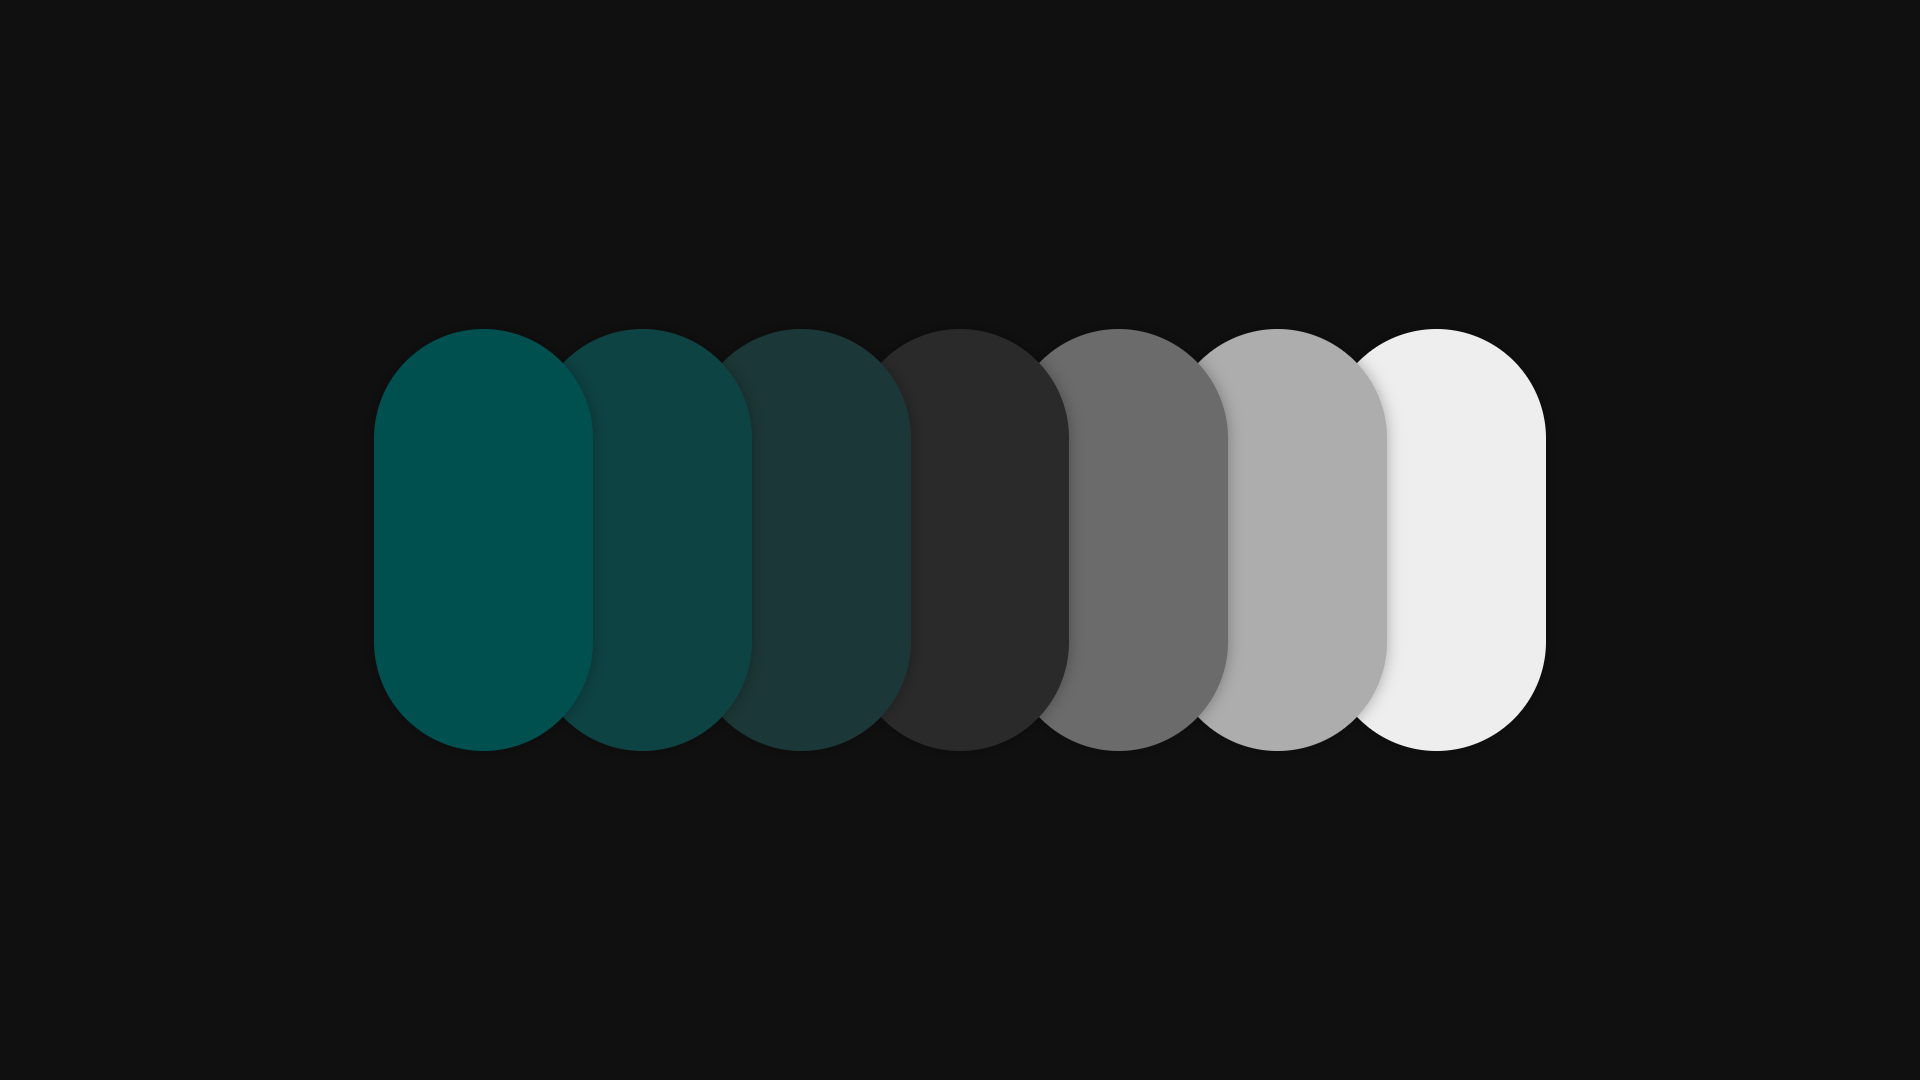
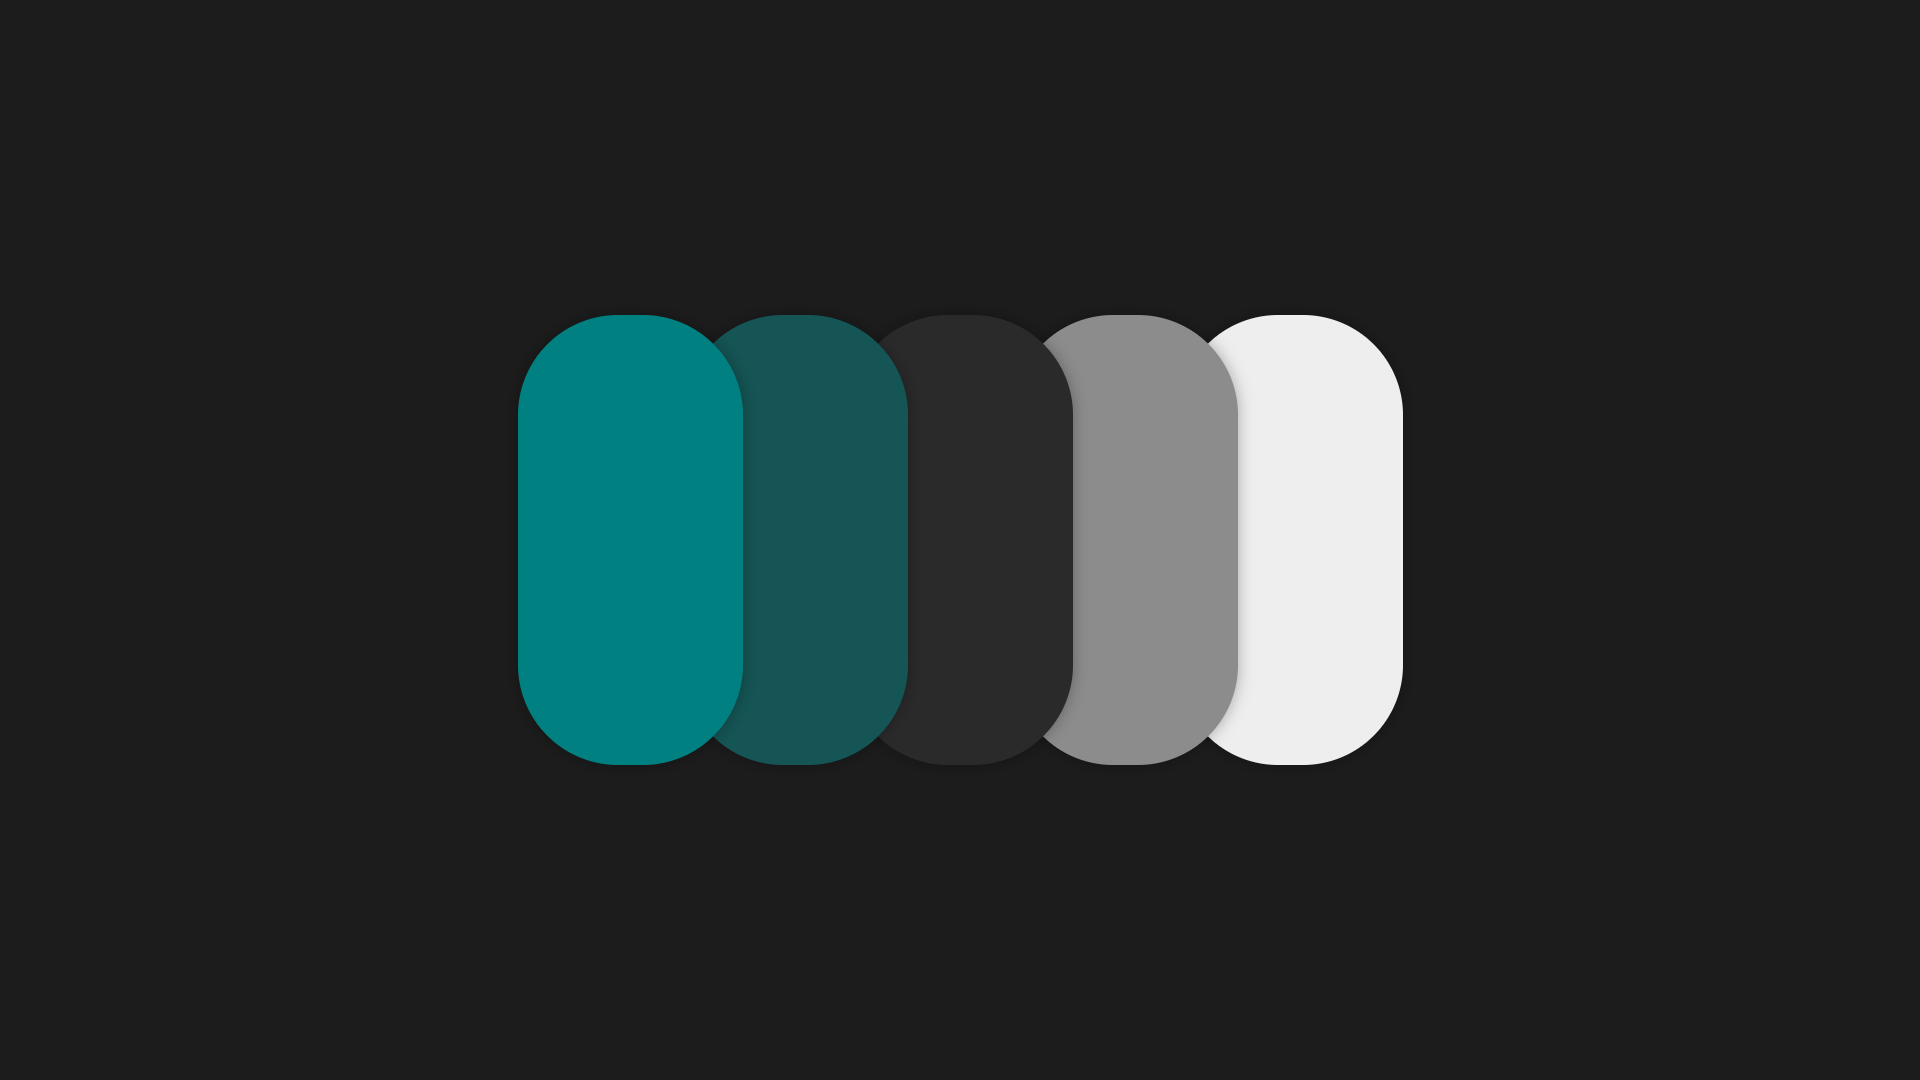
Refined waybar

Changed region(s): [[0.1875, 0.275, 0.8125, 0.7333]]

diff --git a/.config/waybar/style.css b/.config/waybar/style.css
@@ -1,26 +1,70 @@
 @define-color foreground #eeeeee;
+@define-color d-foreground #8c8c8c;
 @define-color background #2a2a2a;
 @define-color color #008080;
+@define-color d-color #155555;
 
 * {
-    font-family: AdwaitaMono Nerd Font;
-    font-size: 16px;
+    font-family: "AdwaitaMono Nerd Font";
+    font-size: 15px;
 }
 
 window#waybar {
+    all: unset;
+}
+
+tooltip {
+    background: @background;
     color: @foreground;
+}
+
+.modules-left {
+    padding: 7px;
+    margin: 10 0 5 10;
+    border-radius: 10px;
+    background: alpha(@background, 0.7);
+}
+
+.modules-center {
+    padding: 7px;
+    margin: 10 0 5 0;
+    border-radius: 10px;
+    background: alpha(@background, 0.7);
+}
+
+.modules-right {
+    padding: 7px;
+    margin: 10 10 5 0;
+    border-radius: 10px;
     background: alpha(@background, 0.7);
 }
 
 #workspaces button {
-    color: @foreground;
-}
-
-#workspaces button.active {
-    background: @color;
+    all: unset;
+    padding: 0px 12px 0px 6px;
+    color: lighter(@background);
+    transition: all 0.2s ease;
 }
 
 #workspaces button:hover {
-    color: @background;
-    background: @foreground;
+    color: @d-color;
+    border: none;
+    text-shadow: 0px 0px 3px alpha(@color, 0.5);
+    transition: all 0.2s ease;
+}
+
+#workspaces button.active {
+    color: @color;
+    transition: all 0.2s ease;
+}
+
+#clock:hover, #wireplumber:hover, #battery:hover, #network:hover, #bluetooth:hover {
+    text-shadow: 0px 0px 3px alpha(@foreground, 0.5);
+    transition: all 0.5s ease;
+}
+
+#clock, #wireplumber, #battery, #network, #bluetooth, #tray {
+    padding: 0px 5px;
+    color: @foreground;
+    transition: all 0.5s ease;
 }
